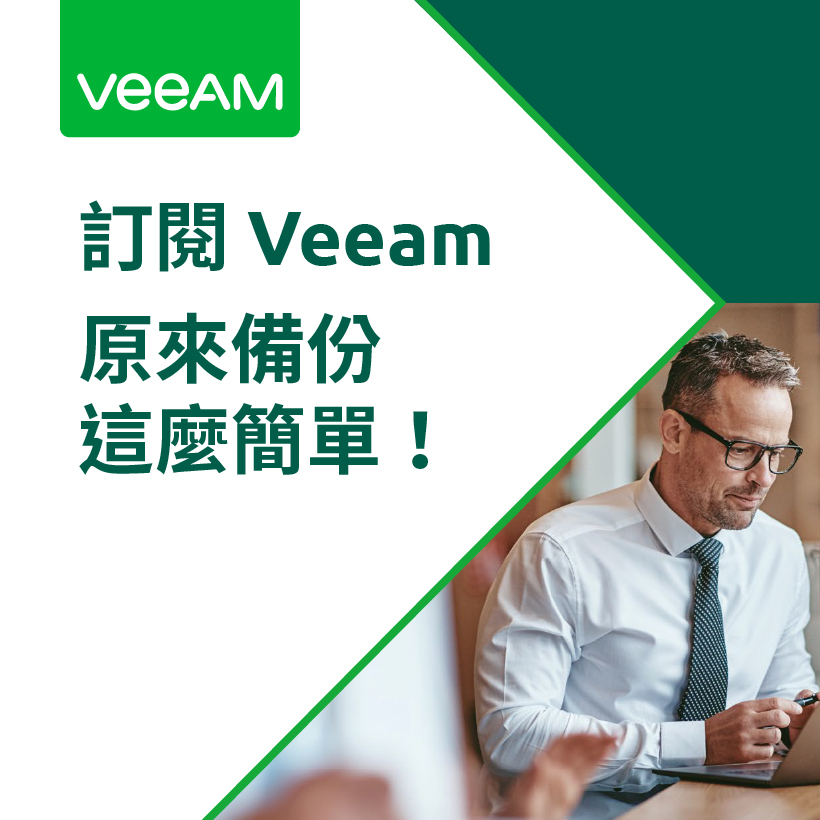
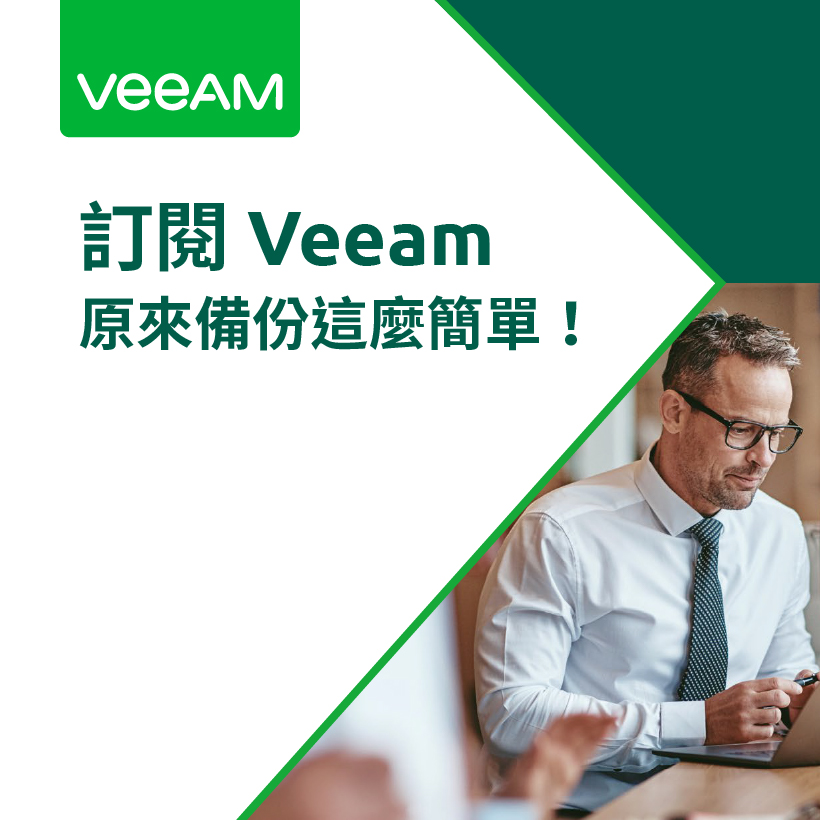
Add files via upload

Changed region(s): [[0.2439, 0.0, 1.0, 1.0], [0.0915, 0.3659, 0.7012, 0.5793], [0.4878, 0.4878, 0.5183, 0.5793]]

diff --git a/Veeam_20220830/index.html b/Veeam_20220830/index.html
@@ -20,7 +20,7 @@
     <link href="https://fonts.googleapis.com/css2?family=Noto+Sans+TC:wght@300;400;500;700&amp;family=Ubuntu:wght@400;700&amp;display=swap" rel="stylesheet">
     <link rel="stylesheet" href="https://cdn.jsdelivr.net/npm/bootstrap@4.5.3/dist/css/bootstrap.min.css" integrity="sha384-TX8t27EcRE3e/ihU7zmQxVncDAy5uIKz4rEkgIXeMed4M0jlfIDPvg6uqKI2xXr2" crossorigin="anonymous">
     <link rel="stylesheet" href="https://unpkg.com/aos@2.3.1/dist/aos.css">
-    <link rel="stylesheet" href="style.css?v=81432">
+    <link rel="stylesheet" href="style.css?v=811148">
   </head>
   <body>
     <div class="g_fixed fix_aside"><a class="fx_item is_primary js_page_scroll" href="https://www.digitimes.com.tw/OnLine/DataInput.asp?ProdGroup=056AB0817-0" target="_blank">
@@ -34,11 +34,11 @@
           <div class="logo" data-aos="fade-down" data-aos-delay="400" data-aos-duration="1200"><img class="img-fluid" src="img/kv_logo.png"></div>
           <div class="tit">
             <div class="t1" data-aos="fade-up" data-aos-delay="800" data-aos-duration="1200"> <span>訂閱 Veeam</span><span>原來備份這麼簡單！</span></div>
-            <div class="date" data-aos="fade-up" data-aos-delay="1600" data-aos-duration="1200"><span>8.30 - 31</span><span>11:00-12:00</span></div>
+            <div class="date" data-aos="fade-up" data-aos-delay="1600" data-aos-duration="1200"><span>8.30 - 31</span><span>11:00am-12:00pm</span></div>
           </div>
         </div>
         <div class="mobile d-md-none"><img class="img-fluid" src="img/mkv.jpg">
-          <div class="date"><span>8.30 - 31</span><span>11:00-12:00</span></div>
+          <div class="date"><span>8.30 - 31</span><span>11:00am-12:00pm</span></div>
         </div>
       </div>
       <div class="counter" id="aos2">
@@ -233,6 +233,16 @@
       </section>
     </div>
     <div class="g_footer">
+      <div class="sc_logos">
+        <div class="pattern p1"></div>
+        <div class="container">
+          <div class="logos">
+            <div class="item"><a class="img" href="https://www.arrosoft.com/zh-tw" target="_blank"><img src="img/footer_arrsoft.jpg" alt="Arrosoft"></a></div>
+            <div class="item"><a class="img" href="https://www.freedom.net.tw/" target="_blank"><img src="img/footer_freedom.jpg" alt="FREEDOM"></a></div>
+            <div class="item"><a class="img" href="https://www.veeam.com/tc" target="_blank"><img src="img/footer_veeam.jpg" alt="veeam"></a></div>
+          </div>
+        </div>
+      </div>
       <div class="sc_company">
         <div class="pattern p1"></div>
         <div class="container">
@@ -242,16 +252,6 @@
               <div class="nam"><img class="img-fluid" src="img/logo_veeam_white.svg"></div>
             </div>
             <div class="parag">Veeam 是提供現代化資料保護的備份、復原、和資料管理解決方案的市場領導者。Veeam為雲端、虛擬、實體、軟體即服務(SaaS)和Kubernetes環境提供單一平台。<br>Veeam在全球擁有超過400,000家客戶，其中包括82％的財富500強企業和69％的全球2,000強企業。Veeam的全球生態系涵蓋超過 70,000 個通路合作夥伴，並在超過30個國家設有辦公室。<br>若需了解詳情，請造訪 <a href='https://www.veeam.com/tc' target='_blank'>https://www.veeam.com/tc</a>，或上 Twitter 關注 Veeam：<a href='https://twitter.com/Veeam' target='_blank'>@veeam</a></div>
-          </div>
-        </div>
-      </div>
-      <div class="sc_logos">
-        <div class="pattern p1"></div>
-        <div class="container">
-          <div class="logos">
-            <div class="item"><a class="img" href="https://www.arrosoft.com/zh-tw" target="_blank"><img src="img/footer_arrsoft.jpg" alt="Arrosoft"></a></div>
-            <div class="item"><a class="img" href="https://www.freedom.net.tw/" target="_blank"><img src="img/footer_freedom.jpg" alt="FREEDOM"></a></div>
-            <div class="item"><a class="img" href="https://www.veeam.com/tc" target="_blank"><img src="img/footer_veeam.jpg" alt="veeam"></a></div>
           </div>
         </div>
       </div>

diff --git a/Veeam_20220830/style.css b/Veeam_20220830/style.css
@@ -363,9 +363,10 @@ a {
 }
 
 .sc_cta {
-  margin: 60px 0;
+  margin-top: 60px;
   padding: 60px 0;
   background-color: #eaffd0;
+  background: linear-gradient(135deg, #fff, rgba(234, 255, 208, 0.2) 20%, #eaffd0);
 }
 .sc_cta .cta {
   text-align: center;
@@ -433,20 +434,16 @@ a {
 
 .sc_gift {
   position: relative;
+  padding-top: 60px;
   padding-bottom: 60px;
+  overflow: hidden;
 }
 .sc_gift .pattern {
   position: absolute;
 }
-.sc_gift .pattern.p1 {
-  left: 0;
-  bottom: 0;
-  width: 33%;
-  height: 120px;
-}
 .sc_gift .pattern.p2 {
   right: 0;
-  top: -20px;
+  top: 20px;
   width: 20%;
   height: 150px;
 }
@@ -526,7 +523,9 @@ a {
 }
 
 .sc_qa {
+  padding-top: 60px;
   padding-bottom: 80px;
+  background: linear-gradient(135deg, #fff, rgba(147, 235, 32, 0.1) 20%, rgba(0, 93, 73, 0.2));
 }
 .sc_qa .sc_cnt {
   padding: 0 40px;
@@ -595,7 +594,7 @@ a {
 .g_footer .sc_company .pattern.p1 {
   position: absolute;
   left: -44px;
-  bottom: -20px;
+  top: -18px;
   width: 16%;
   height: 120px;
 }
@@ -666,7 +665,7 @@ a {
 .g_footer .sc_logos .pattern.p1 {
   position: absolute;
   left: -44px;
-  top: -18px;
+  bottom: -20px;
   width: 16%;
   height: 120px;
   background: radial-gradient(circle, #0b4d87 3px, transparent 4px) -8px -9px/27px 27px repeat;
@@ -716,31 +715,22 @@ a {
   .kv {
     position: relative;
   }
-  .kv .logo {
-    left: 5.9895833333%;
-    width: 25%;
-  }
-  .kv .tit {
-    padding-left: 5.9895833333%;
-    margin-top: 45px;
-    font-size: 1.5rem;
-  }
-  .kv .tit .t1 {
-    width: 6em;
-    font-size: 2.25em;
-    line-height: 1.25;
-  }
-  .kv .tit .t1 .d-inline-block:nth-child(1) {
-    padding-right: 0;
-  }
   .kv .date {
     position: absolute;
-    left: 0;
-    bottom: 0;
+    left: 9%;
+    bottom: 25vw;
+    margin-top: 0;
     border-radius: 0;
-    font-size: 1.675rem;
+    font-size: 1.5rem;
     background-color: #005d49;
     color: #fff;
+  }
+  .kv .date span {
+    display: block;
+  }
+  .kv .date span:first-child {
+    border-right-width: 0;
+    padding-bottom: 0.2em;
   }
 
   .counter {
@@ -807,6 +797,7 @@ a {
   }
 
   .sc_gift {
+    padding-top: 40px;
     padding-bottom: 20px;
   }
   .sc_gift .sc_cnt {
@@ -816,16 +807,11 @@ a {
     position: absolute;
     -webkit-transform: scale(0.6);
             transform: scale(0.6);
-  }
-  .sc_gift .pattern.p1 {
-    left: -36px;
-    bottom: -36px;
-    width: 50%;
-    height: 160px;
+    -webkit-transform-origin: right top;
+            transform-origin: right top;
   }
   .sc_gift .pattern.p2 {
-    right: -40px;
-    top: -70px;
+    top: 10px;
     width: 40%;
     height: 200px;
   }
@@ -889,12 +875,15 @@ a {
     -webkit-transform: scale(0.6);
             transform: scale(0.6);
   }
+  .g_footer .sc_logos .pattern.p1 {
+    bottom: -34px;
+  }
   .g_footer .sc_company {
     padding-left: 30px;
     padding-right: 30px;
   }
   .g_footer .sc_company .pattern.p1 {
-    bottom: -34px;
+    top: -34px;
   }
   .g_footer .sc_company .container {
     padding-left: 0;
@@ -915,9 +904,6 @@ a {
   .g_footer .sc_company .company_tit .nam {
     margin-left: 0;
     margin-top: 10px;
-  }
-  .g_footer .sc_logos .pattern.p1 {
-    top: -34px;
   }
 
   .modal-header {
